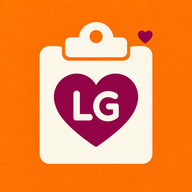
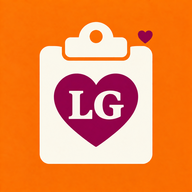
Harmoniser la typographie du pictogramme

Changed region(s): [[0.3438, 0.4688, 0.6562, 0.6562]]

diff --git a/service-worker.js b/service-worker.js
@@ -1,1 +1,1 @@
-const CACHE='ma-todolist-v2';const ASSETS=['./','./index.html','./icon-180.png','./icon-192.png','./icon-512.png','./manifest.webmanifest'];self.addEventListener('install',e=>e.waitUntil(caches.open(CACHE).then(c=>c.addAll(ASSETS)).then(()=>self.skipWaiting())));self.addEventListener('activate',e=>e.waitUntil(caches.keys().then(keys=>Promise.all(keys.filter(k=>k!==CACHE).map(k=>caches.delete(k)))).then(()=>self.clients.claim())));self.addEventListener('fetch',e=>{if(e.request.method!=='GET')return;e.respondWith(fetch(e.request).then(r=>{const copy=r.clone();caches.open(CACHE).then(c=>c.put(e.request,copy));return r}).catch(()=>caches.match(e.request).then(r=>r||caches.match('./index.html'))))});
+const CACHE='ma-todolist-v3';const ASSETS=['./','./index.html','./icon-180.png','./icon-192.png','./icon-512.png','./manifest.webmanifest'];self.addEventListener('install',e=>e.waitUntil(caches.open(CACHE).then(c=>c.addAll(ASSETS)).then(()=>self.skipWaiting())));self.addEventListener('activate',e=>e.waitUntil(caches.keys().then(keys=>Promise.all(keys.filter(k=>k!==CACHE).map(k=>caches.delete(k)))).then(()=>self.clients.claim())));self.addEventListener('fetch',e=>{if(e.request.method!=='GET')return;e.respondWith(fetch(e.request).then(r=>{const copy=r.clone();caches.open(CACHE).then(c=>c.put(e.request,copy));return r}).catch(()=>caches.match(e.request).then(r=>r||caches.match('./index.html'))))});
